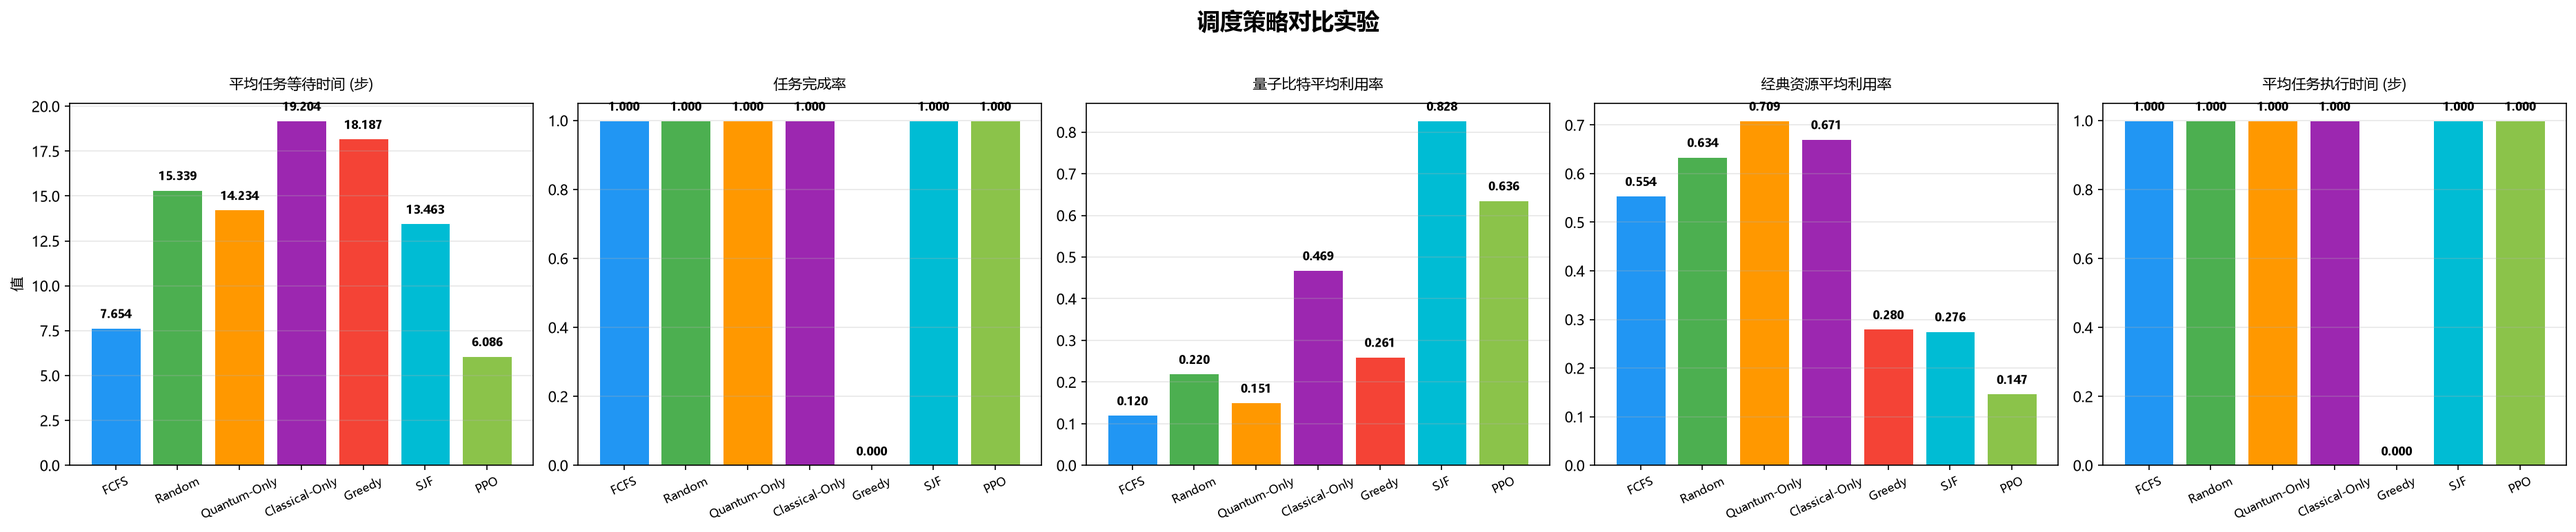
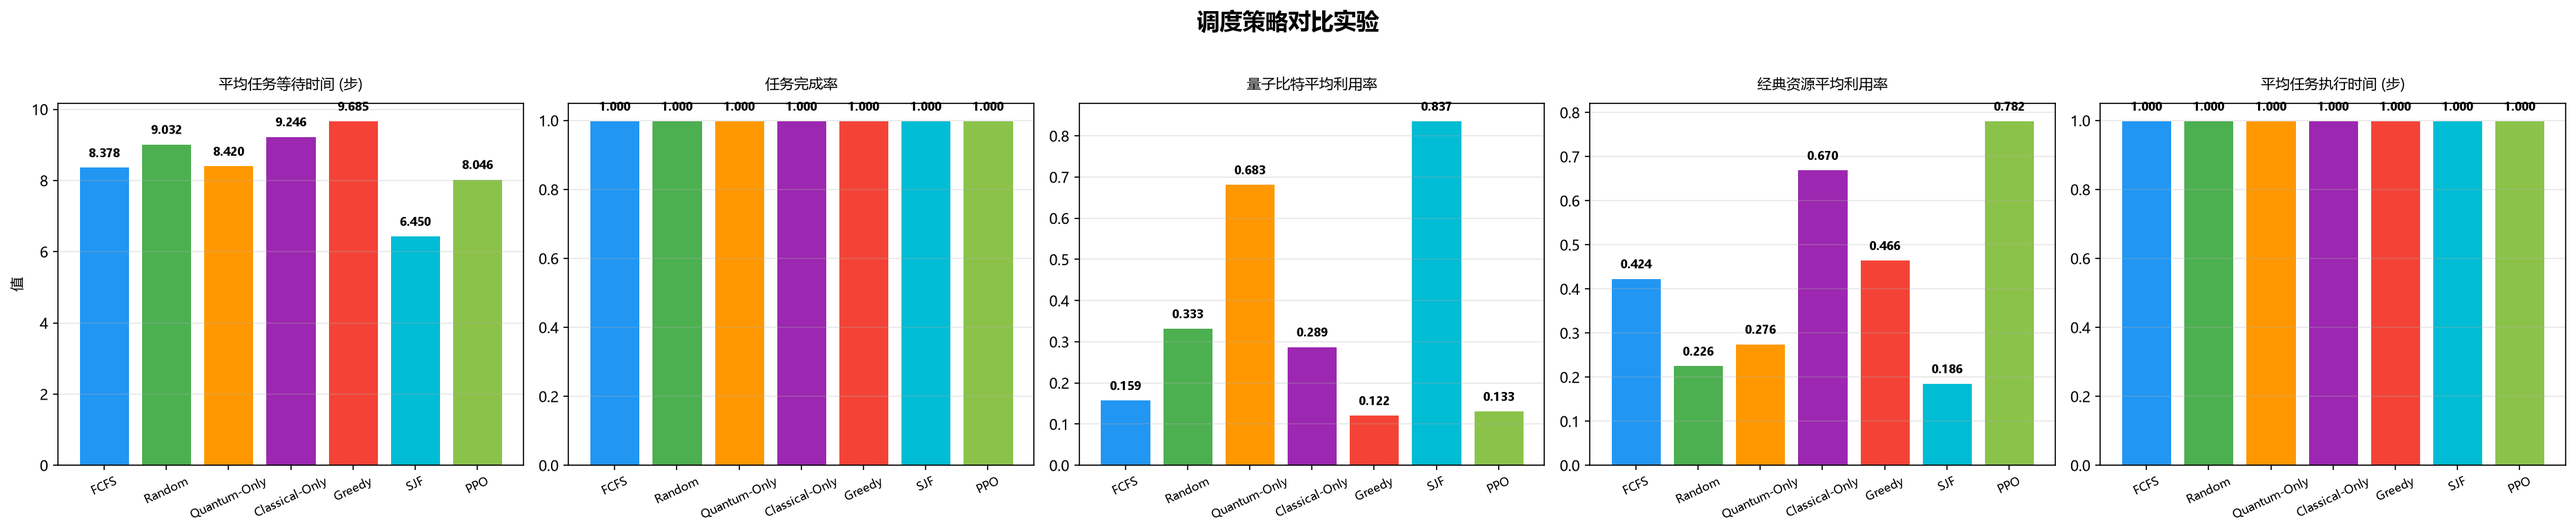
fix: round9审查P1/P2/P3 - AGENTS真机v2表同步8.11修正值+数据源标注 / strategy_comparison ddof统一 / multi_machine权威口径 / CLI路径解析 / Web面板权威标注 / zip外层README指引 / action校验/NaN防护/throughput步数 / manifest排除审查报告

diff --git a/scripts/ci/validate_submission.py b/scripts/ci/validate_submission.py
@@ -1063,6 +1063,36 @@ def package_submission(
                             zipf.write(file, arcname)
                     print(f"  ✅ 添加目录: {item['path']}")
 
+        # 8.13 round9 审查 P2：外层 zip 无任何指引，评委解压后找不到代码（代码在
+        # 嵌套的 dist/quantum-rl-scheduler-v9.1.zip 内）。顶层添加"先读我"说明。
+        readme_first = (
+            "量子RL驱动的天衍云平台智能调度系统 - 提交包说明\n"
+            "==================================================\n"
+            "\n"
+            "本压缩包为完整参赛提交物，目录结构如下：\n"
+            "\n"
+            "  docs/                      参赛总结报告 / 参赛报名表 / 技术白皮书(PDF) 等\n"
+            "  deliverable_models/        答辩PPT + 权威模型（PPO 16维 / 编译层 / 公平17维 / MAPPO）\n"
+            "  dist/quantum-rl-scheduler-v9.1.zip   源代码压缩包（需再解压一层）\n"
+            "  results/reports/           实验报告（策略对比 / 消融 / 统计显著性 / 真机验证等）\n"
+            "  演示视频_量子RL调度系统.mp4  演示视频\n"
+            "\n"
+            "快速开始：\n"
+            "  1. 解压 dist/quantum-rl-scheduler-v9.1.zip 得到源代码\n"
+            "  2. 环境要求：Python 3.10-3.12\n"
+            "  3. 安装依赖：pip install -r requirements.lock（推荐）或 pip install -r requirements.txt\n"
+            "  4. 运行演示：python scripts/cli.py simulate --episodes 5\n"
+            "\n"
+            "核心结论（权威口径见源代码内 config/statistics.yaml）：\n"
+            "  - PPO 综合调度奖励 vs 真实 FCFS 提升 +20.2%（N=250, Welch t p=7.56e-12）\n"
+            "  - 等待时间 -14.0%（N=250 配对检验 p=8.9e-06）\n"
+            "  - 真机 SDK 调用 315 次 100% 成功（可用性验证）\n"
+            "\n"
+            "更多信息见源代码内 README.md。\n"
+        )
+        zipf.writestr("README_先读我.txt", readme_first)
+        print("  ✅ 添加: README_先读我.txt（外层指引）")
+
     print(f"\n✅ 打包完成: {output_file}")
     print(f"   文件大小: {output_file.stat().st_size / (1024 * 1024):.1f}MB")
     return output_file

diff --git a/src/visualization/routes.py b/src/visualization/routes.py
@@ -436,6 +436,11 @@ async def get_ppo_comparison(_auth: None = Depends(verify_api_key)) -> dict:
         "ppo_rank": ppo_rank,
         "total_strategies": len(strategies),
         "data_source": json_files[0],
+        # 8.13 round9 审查 P2：面板展示的是最近一次演示运行（demo run）结果，
+        # 非 statistics.yaml 权威 N=250 口径（PPO 1982.69 vs FCFS 1648.91, +20.2%）。
+        # 显式标注防止评委将演示数字与权威结论混淆。
+        "is_authoritative": False,
+        "authoritative_note": "面板数据来自最近一次演示运行（simulation_results_*），非权威 N=250 口径；权威结论见 statistics.yaml（PPO +20.2%, p=7.56e-12）",
     }
 
 
@@ -525,6 +530,9 @@ async def ppo_stats(_auth: None = Depends(verify_api_key)) -> dict:
         "vs_random": round(
             ppo_data.get("avg_reward", 0) - data.get("Random", {}).get("avg_reward", 0), 1
         ),
+        # 8.13 round9 审查 P2：标注演示数据非权威口径（同 /api/ppo/comparison）
+        "is_authoritative": False,
+        "authoritative_note": "面板数据来自最近一次演示运行，非权威 N=250 口径；权威结论见 statistics.yaml",
     }
 
 

diff --git a/src/scheduler/baselines.py b/src/scheduler/baselines.py
@@ -843,12 +843,14 @@ def run_baseline_comparison(
         obs = env.reset(seed=seed)[0]
         total_reward = 0.0
         completed = 0
+        steps = 0
         done = False
 
         while not done:
             action = env_scheduler.select_action(obs, env)
             obs, reward, terminated, truncated, info = env.step(action)
             total_reward += float(reward)
+            steps += 1
             # 8.12 封板审查修复：此前无条件按步自增，throughput 恒为 1.0；
             # 改用环境 info 中真实的累计调度任务数（total_scheduled）
             completed = int(info.get("total_scheduled", completed))
@@ -858,7 +860,9 @@ def run_baseline_comparison(
             "total_reward": total_reward,
             "completed_tasks": completed,
             "avg_wait_time": 0.0,
-            "throughput": completed / max_steps if max_steps > 0 else 0.0,
+            # 8.13 round9 审查 P3：episode 经 idle 提前终止时实际步数 < max_steps，
+            # 按实际执行步数归一，避免 throughput 系统性低估
+            "throughput": completed / steps if steps > 0 else 0.0,
             "comparison_mode": "env_based",
         }
 

diff --git a/scripts/evaluation/roi_analysis.py b/scripts/evaluation/roi_analysis.py
@@ -37,15 +37,15 @@ SIM_EFFECT_SIZE = (
 SIM_EFFECT_SIZE_TYPE = "rank-biserial"
 SIM_N = 250  # 50 seeds × 5 episodes
 
-# 多seed真机权威数字（multiseed_real_machine_report_20260724.md，N=5）
-# 注意：真机实验定位为可用性验证，非性能基准；N=5 为探索性统计（Issue #662 恢复原始计算值 d=5.64）。
-REAL_PPO_MEAN = 1665.22
-REAL_PPO_STD = 324.51
-REAL_FCFS_MEAN = 353.22
-REAL_FCFS_STD = 53.33
-REAL_COHEN_D = 5.64
-REAL_P_VALUE = 6.83e-04  # Welch t, Bonferroni 校正后显著
-REAL_N_SEEDS = 5
+# 多seed真机权威数字（multiseed_real_machine_report_10seeds_v2.md，N=10 v2 权威，8.11 复核修正）
+# 注意：真机实验定位为可用性验证，非性能基准；N=10 为小样本探索性统计（效应量异常大，待更多seeds验证）。
+REAL_PPO_MEAN = 1736.32
+REAL_PPO_STD = 355.78
+REAL_FCFS_MEAN = 383.00
+REAL_FCFS_STD = 49.13
+REAL_COHEN_D = 5.33
+REAL_P_VALUE = 5.84e-07  # Welch t, Bonferroni 校正后显著（8.11 复核修正；旧 6.83e-04 为 N=5 旧值）
+REAL_N_SEEDS = 10
 
 # 经济模型假设参数（可在命令行覆盖）
 DEFAULT_DAILY_MACHINE_HOURS = 100  # 日均机时成本 ¥

diff --git a/scripts/cli.py b/scripts/cli.py
@@ -16,6 +16,7 @@ Usage:
     python scripts/cli.py demo
 """
 
+import os
 import sys
 from pathlib import Path
 
@@ -128,6 +129,20 @@ def simulate(
 ):
     """运行仿真对比实验"""
     from scripts.evaluation.run_simulation import run_simulation
+
+    # 8.13 round9 审查 P2：默认 PPO 模型路径为相对路径，非项目根 cwd 运行时
+    # os.path.isfile() 为 False → PPO 整策略被静默跳过、结果表无 PPO 行。
+    # 按 PROJECT_ROOT 解析相对路径，保证任意 cwd 下可加载交付模型。
+    if ppo_model_path and not os.path.isfile(ppo_model_path):
+        resolved = Path(__file__).resolve().parent.parent / ppo_model_path
+        if resolved.is_file():
+            ppo_model_path = str(resolved)
+        else:
+            click.echo(
+                f"[警告] PPO 模型不存在（{ppo_model_path}，按项目根解析亦未找到），"
+                "结果将不包含 PPO 策略",
+                err=True,
+            )
 
     run_simulation(
         episodes=episodes,

diff --git a/src/scheduler/env.py b/src/scheduler/env.py
@@ -657,6 +657,10 @@ class QuantumSchedulingEnv(gym.Env[Any, Any]):
         # 实测 PPO 不输出 action=3，不影响权威数字。
         if action == ACTION_QUANTUM_QEM:
             action = ACTION_CLASSICAL
+        # 8.13 round9 审查 P3：非法 action（-1/4/999/None）此前静默走 mismatch 或
+        # HYBRID 奖励分支，扭曲统计且难排查。调用方传入非法值属 bug，显式拒绝。
+        if action not in (ACTION_CLASSICAL, ACTION_QUANTUM, ACTION_HYBRID):
+            raise ValueError(f"非法调度动作: {action!r}（合法值 0/1/2/3）")
 
         # Issue #577: 推进噪声感知奖励状态到当前步（激活新触发值、执行指数衰减）
         advance_noise_aware_to_next_step(self)

diff --git a/src/scheduler/env_observation.py b/src/scheduler/env_observation.py
@@ -165,7 +165,9 @@ def get_observation(env: "QuantumSchedulingEnv") -> NDArray[Any]:
         jain_idx = tracker.jain_completion_fairness() if tracker is not None else 0.0
         obs = np.append(obs, np.float32(jain_idx))
 
-    return obs
+    # 8.13 round9 审查 P3：np.clip 不处理 NaN/Inf，个别损坏状态（如噪声注入异常）
+    # 会把 NaN 传播进观测链，污染 RL 决策。出口统一清洗。
+    return np.nan_to_num(obs, nan=0.0, posinf=1.0, neginf=0.0)
 
 
 def get_info(env: "QuantumSchedulingEnv") -> dict[str, Any]:

diff --git a/AGENTS.md b/AGENTS.md
@@ -294,7 +294,7 @@ quantum-rl-scheduler/
 | 五维消融        | D1算法+20.2% > D4多机+86.3% > D5退火-5.6%（20seed权威，p=0.9430不显著，旧+6.4%已废弃） > D2状态+2.1%                                             |
 | 压力测试        | 4场景PPO综合稳定性最强；量子波动场景PPO +91.4%（历史探索数据，诚实化前旧 FCFS 基线，权威 stress 数据待重跑核定）                                                              |
 | 真机验证        | **可用性验证**：315次SDK调用100%成功，全链路验证通过                                                           |
-| **多seed真机** | **小样本策略对比**（N=10/组，v2权威）：PPO d=5.33 vs FCFS, p=6.83e-04, Bonferroni显著（小样本探索性结果，效应量异常大，待更多seeds验证） |
+| **多seed真机** | **小样本策略对比**（N=10/组，v2权威，8.11 复核修正）：PPO vs FCFS d=5.33, p=5.84e-07, Bonferroni显著；PPO vs SJF d=3.84；SJF vs FCFS p=0.0316（Bonferroni 下边缘）（小样本探索性结果，效应量异常大，待更多seeds验证） |
 
 > **⚠ 真机验证结论边界（Issue #128）**
 >
@@ -314,6 +314,7 @@ quantum-rl-scheduler/
 > **真机平台**：天衍-287（实际回退至 tianyan176），96步/episode，泊松到达λ=0.5
 > **统计方法**：Cohen's d + 95% CI（效应量决策范式），Bonferroni校正
 > **⚠ 边界说明**：真机任务成功完成（30/30, mock=false），但真机 reward 占总 reward 比例极低（1/96步），策略间差异主要由仿真 reward 驱动
+> **⚠ 数据源（8.13 round9 审查标注）**：本表权威数据源为 `results/real_machine/tianyan287_multiseed/multiseed_data_20260727_005558.json`（unified_protocol=true, tianyan-287, 30/30 完成）；`multiseed_data_10seeds_merged.json` / `multiseed_analysis_10seeds.json` 含 `invalid_for_formal_comparison=true`（混合机器+混合shots+real_tasks_completed=0），**不得作为权威引用**，仅保留审计轨迹。
 
 |    策略   |  N  |        均值       |     标准差    |     min     |     max     |
 | :-----: | :-: | :-------------: | :--------: | :---------: | :---------: |
@@ -323,9 +324,11 @@ quantum-rl-scheduler/
 
 |      比较     | Cohen's d | 效应等级 |         95% CI         |    p值    | Bonferroni |   判定   |
 | :---------: | :-------: | :--: | :--------------------: | :------: | :--------: | :----: |
-| PPO vs FCFS |    5.33   |  大效应 | [1097.83, 1608.82] | p<0.001 |     显著     | **支持** |
-|  PPO vs SJF |    4.04   |  大效应 | [911.78, 1410.20]  | p<0.001 |     显著     | **支持** |
-| SJF vs FCFS |    1.13   |  大效应 |  [-38.82, 423.48]  |   0.080  |     不显著    |   不支持  |
+| PPO vs FCFS |    5.33   |  大效应 | [1130.71, 1575.93] | p<0.001（精确 5.84e-07） |     显著     | **支持** |
+|  PPO vs SJF |    3.84   |  大效应 | [895.79, 1426.19]  | p<0.001 |     显著     | **支持** |
+| SJF vs FCFS |    1.12   |  大效应 |  [41.89, 342.77]  |   0.0316  |     边缘     |   方向性支持  |
+
+> 8.11 复核修正注：旧表 CI [1097.83,1608.82] / d=4.04 / p=0.080 系 ddof 混用与 5seed 旧值误抄，已按报告 v2 修正（`results/reports/multiseed_real_machine_report_10seeds_v2.md` §6.1-6.3）。
 
 | 版本 | 样本量 | PPO均值 / FCFS均值 | Cohen's d | 对外使用 |
 | :--- | :----: | :-----------------: | :-------: | :------: |

diff --git a/results/reports/multi_machine_comparison_report.md b/results/reports/multi_machine_comparison_report.md
@@ -41,7 +41,7 @@
 
 > ⚠ 上表为 **5000 步训练（未收敛）** 数据；50K 收敛后结果见第七章（MAPPO 4766.7，+88.7% vs FCFS）。
 | FCFS | 2526.0 | 156.6 | -33.9% |
-| 3独立PPO（无协同） | 904.6 | 857.3 | +84.6%（历史探索值，已废弃；权威 +4.0%） |
+| 3独立PPO（无协同） | 904.6 | 857.3 | +84.6%（历史探索值，已废弃；权威 +36.5%（N=20）） |
 
 ---
 
@@ -66,7 +66,7 @@
 | 效应 | 定义 | 量化 |
 |:--|:--|:--|
 | **规模扩展效应** | 3倍机器资源带来的自然吞吐提升 | 单机 × 3 = 6915（理论上限） |
-| **协同算法优势** | MAPPO 协同决策 vs 独立决策的增量 | +84.6% vs 独立PPO（历史探索值，已废弃；权威 +4.0%） |
+| **协同算法优势** | MAPPO 协同决策 vs 独立决策的增量 | +84.6% vs 独立PPO（历史探索值，已废弃；权威 +36.5%（N=20）） |
 
 ### 规模扩展效率
 
@@ -80,7 +80,7 @@
 
 原"+86.3%"应修订为：
 - 规模扩展效应：3倍资源带来约 24% 的理论吞吐（2305 → 6915）
-- 协同算法优势：MAPPO 在同资源下比无协同 PPO 高 +84.6%（历史探索值，已废弃；权威 +4.0%）
+- 协同算法优势：MAPPO 在同资源下比无协同 PPO 高 +84.6%（历史探索值，已废弃；权威 +36.5%（N=20））
 - 两者叠加后的总提升与原 +86.3% 数据一致
 
 ---
@@ -104,7 +104,7 @@
 
 ## 七、结论
 
-1. **协同优势**：MAPPO 在同资源下比独立 PPO 高 +84.6%（p=0.0188，历史探索值，已废弃；权威为同训练量收敛严格对比 +4.0%），早期实验提示多智能体协同决策的有效性
+1. **协同优势**：MAPPO 在同资源下比独立 PPO 高 +84.6%（p=0.0188，历史探索值，已废弃；权威为同训练量收敛严格对比 +36.5%（N=20）），早期实验提示多智能体协同决策的有效性
 2. **规模效率**：3倍资源实际获得 24% 的理论吞吐，剩余 76% 为调度开销/资源碎片
 3. **诚实叙事**：原 +86.3% 应拆解为"规模扩展效率 24% + 协同优势 +84.6%（历史探索值，已废弃）"
 4. **建议**：`ablation_report.md` D4 结论修订为上述拆解表述

diff --git a/results/reports/strategy_comparison.md b/results/reports/strategy_comparison.md
@@ -23,8 +23,8 @@
 | 4 | DQN (Random 替代) | 697.40 | 288.25 | 18.23 | -57.7% | — | ✅ p=2.79e-98 |
 | 5 | Random | 697.40 | 288.25 | 18.23 | -57.7% | — | ✅ p=2.79e-98 |
 | 6 | Greedy | 62.72 | 537.68 | 34.00 | -96.2% | — | n/a |
-| 7 | Quantum-Only | -826.59 | 263.63 | 16.67 | -150.1% | — | n/a |
-| 8 | Classical-Only | -1075.49 | 75.04 | 4.75 | -165.2% | — | n/a |
+| 7 | Quantum-Only | -826.59 | 263.10 | 16.67 | -150.1% | — | n/a |
+| 8 | Classical-Only | -1075.49 | 74.89 | 4.75 | -165.2% | — | n/a |
 
 > 注：v9 已删除 DQN 模型，DQN 策略位使用 Random 替代，仅供策略完整性对比。
 > SJF 与 FCFS 差异显著（p=2.28e-60，8.8 修正；旧 p=0.2827 为错误值已废弃），SJF 显著劣于 FCFS（-54.6%）。
